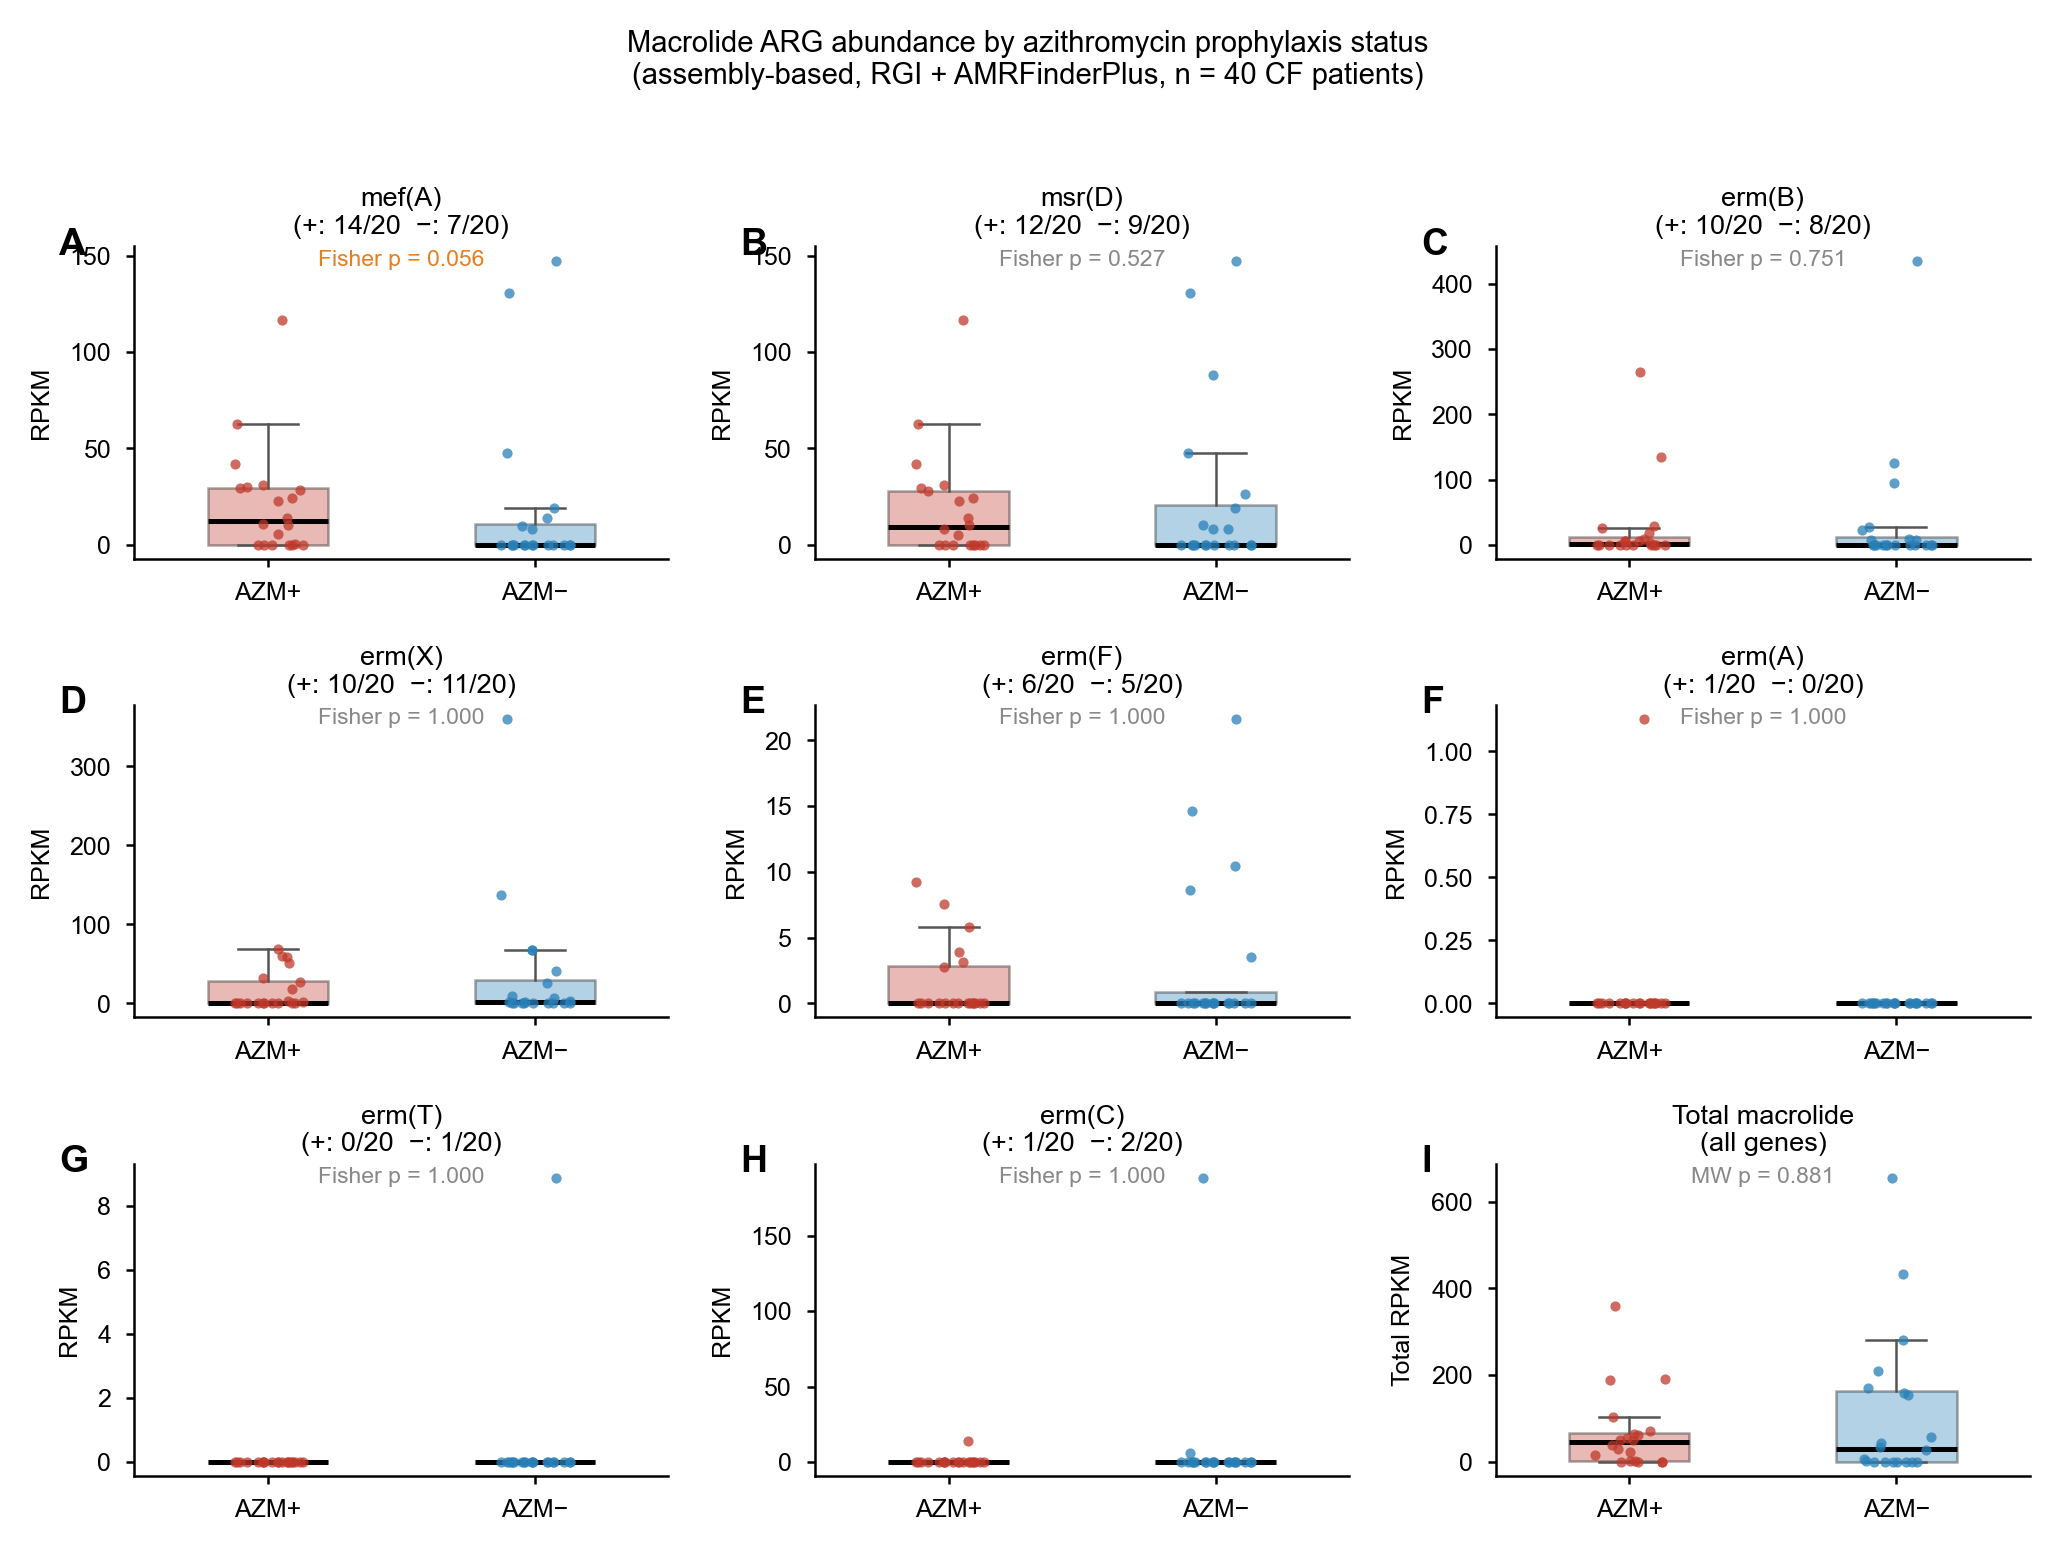
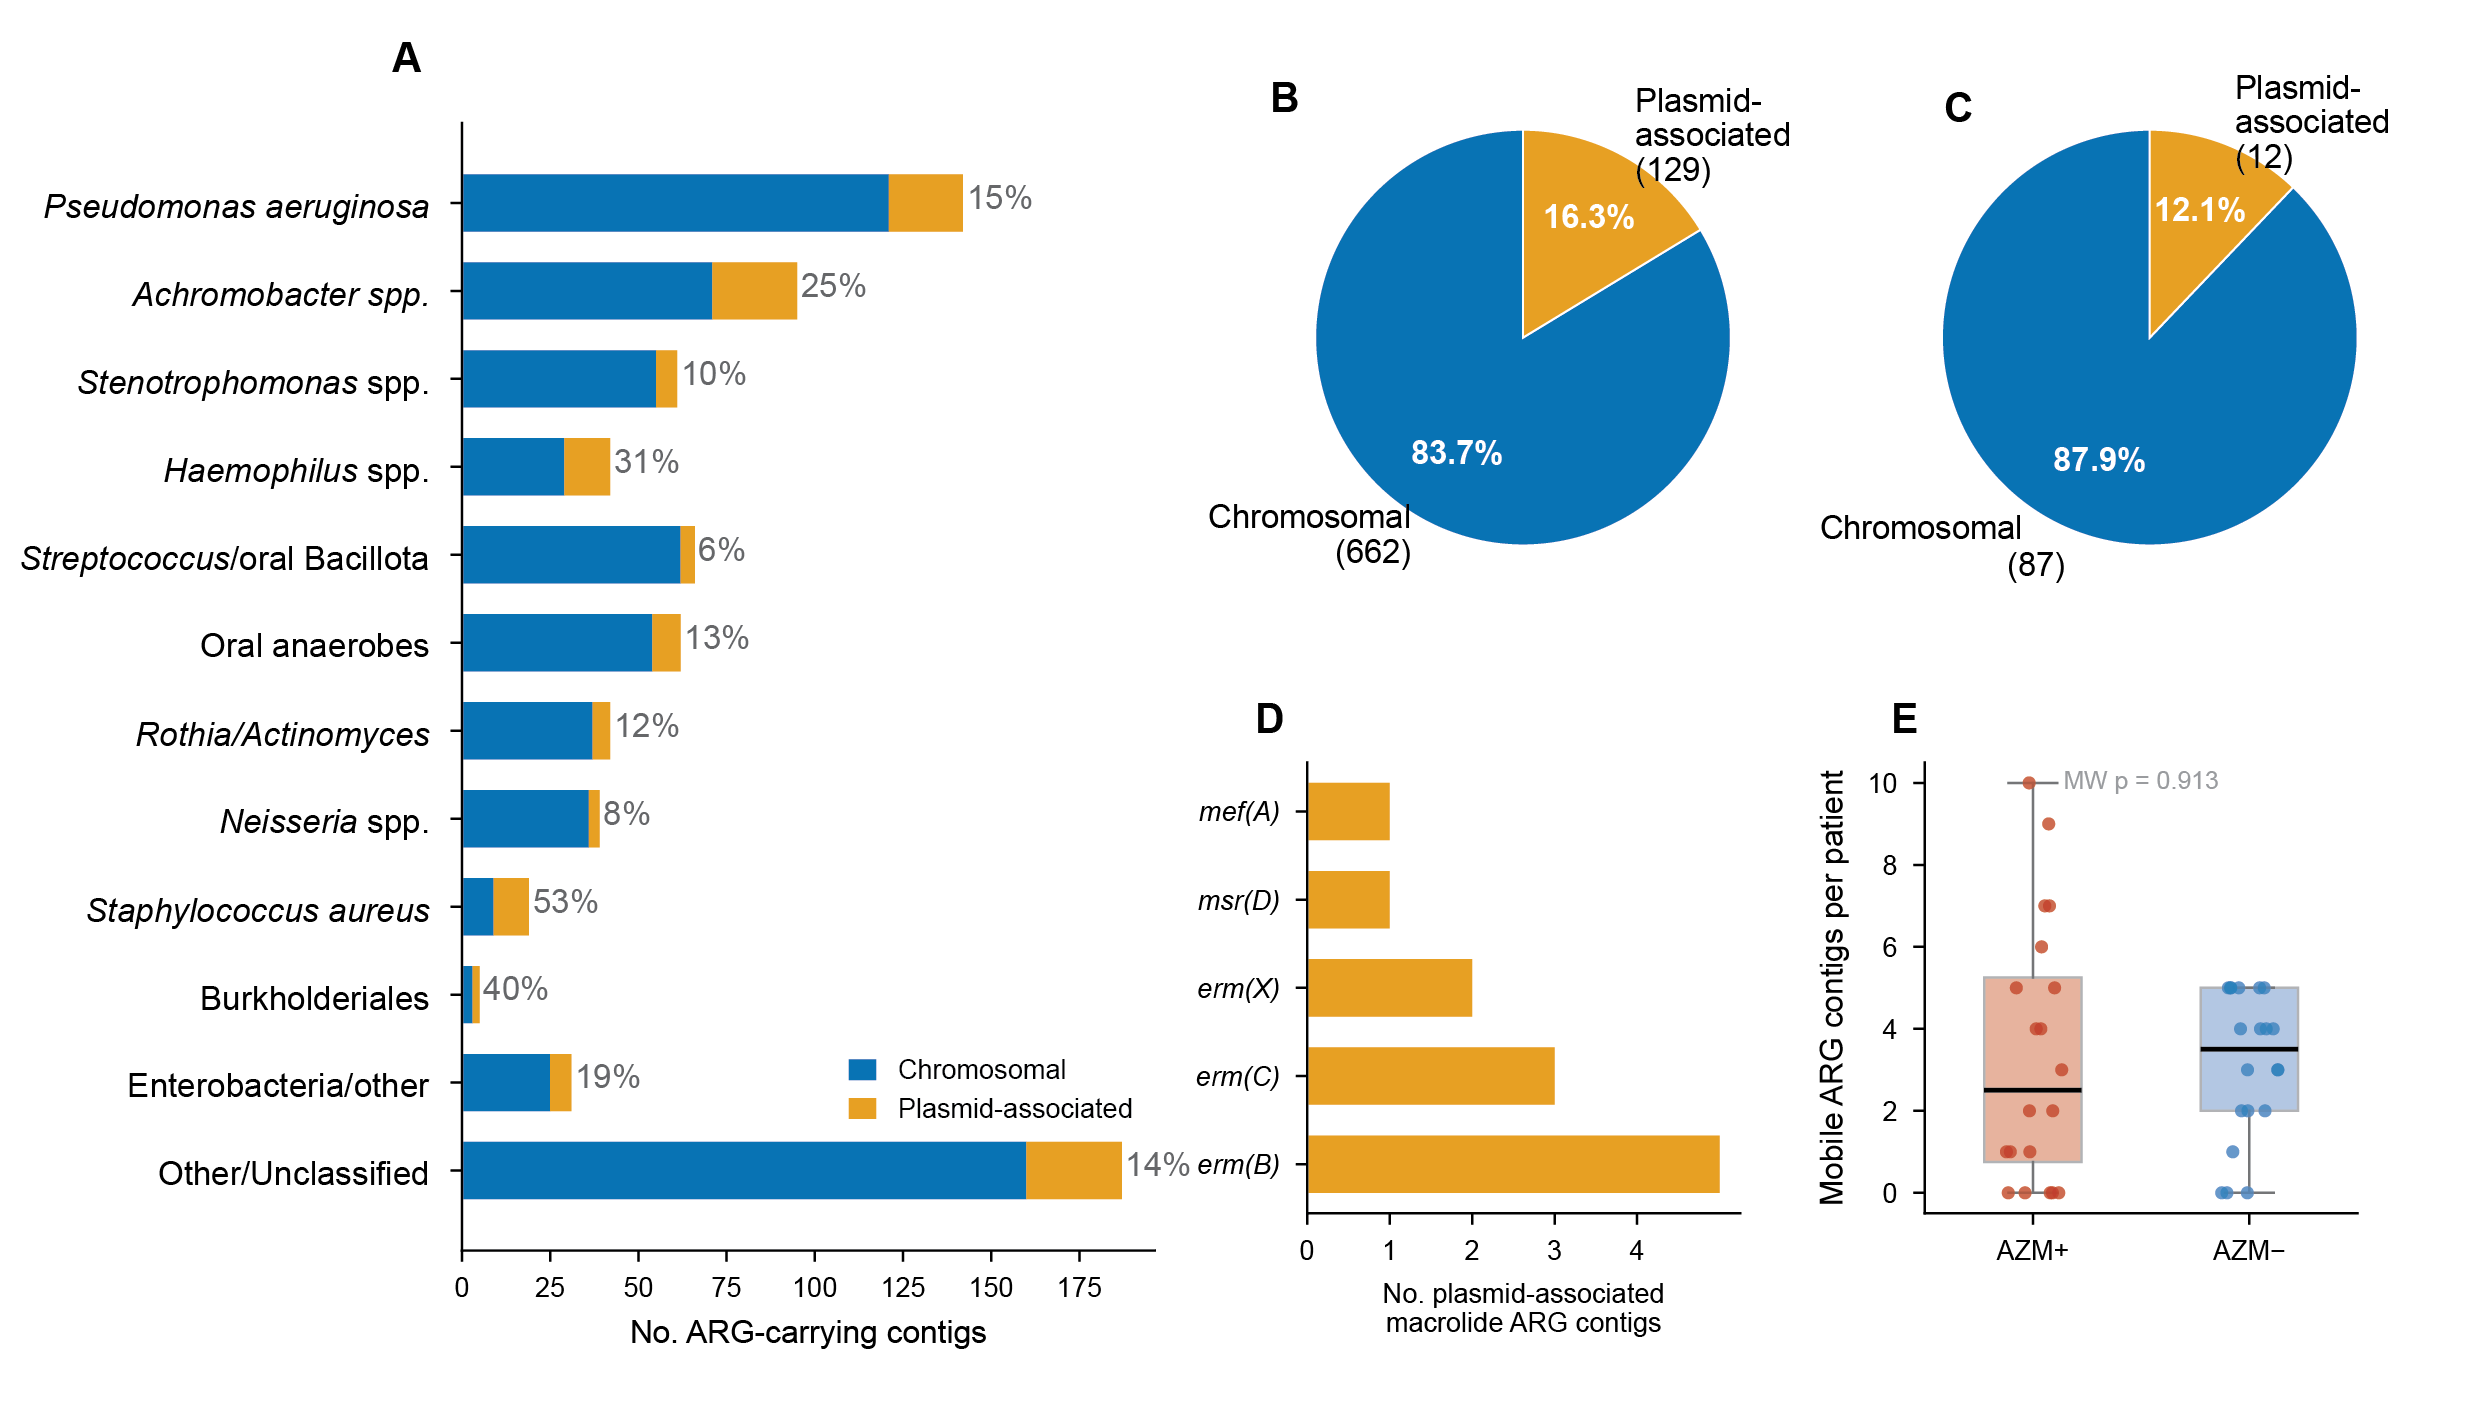
review G. v1

diff --git a/scripts/fig_5.py b/scripts/fig_5.py
@@ -37,12 +37,12 @@ FIG_H = 80 * MM    # 1 row of 4 panels
 matplotlib.rcParams.update({
     'font.family':      'sans-serif',
     'font.sans-serif':  ['Arial', 'Helvetica', 'DejaVu Sans'],
-    'font.size':        7,
-    'axes.labelsize':   7,
-    'axes.titlesize':   7,
-    'xtick.labelsize':  6,
-    'ytick.labelsize':  6,
-    'legend.fontsize':  6,
+    'font.size':        9,
+    'axes.labelsize':   9,
+    'axes.titlesize':   9,
+    'xtick.labelsize':  8,
+    'ytick.labelsize':  8,
+    'legend.fontsize':  8,
     'axes.linewidth':   0.6,
     'xtick.major.width': 0.6,
     'ytick.major.width': 0.6,
@@ -95,10 +95,10 @@ def draw_panel(ax, pos_vals, neg_vals, ylabel, seed=42):
     p_col = '#C0392B' if mw.pvalue < 0.05 else ('#E67E22' if mw.pvalue < 0.10 else '#888888')
     ax.text(0.5, 0.99, f'MW p = {mw.pvalue:.3f}',
             transform=ax.transAxes, ha='center', va='top',
-            fontsize=5.5, color=p_col)
+            fontsize=7.5, color=p_col)
     ax.set_xticks([0, 1])
-    ax.set_xticklabels([f'CFTR+\n(n={n_pos})', f'CFTR−\n(n={n_neg})'], fontsize=6)
-    ax.set_ylabel(ylabel, fontsize=6)
+    ax.set_xticklabels([f'M+\n(n={n_pos})', f'M−\n(n={n_neg})'], fontsize=8)
+    ax.set_ylabel(ylabel, fontsize=8)
     ax.spines['top'].set_visible(False)
     ax.spines['right'].set_visible(False)
     ax.tick_params(axis='both', length=2, width=0.6)
@@ -111,30 +111,26 @@ fig, axes = plt.subplots(1, 4, figsize=(FIG_W, FIG_H))
 pos_a = richness[richness['CFTR'] == 'CFTR+']['n_aro'].values
 neg_a = richness[richness['CFTR'] == 'CFTR−']['n_aro'].values
 p_a = draw_panel(axes[0], pos_a, neg_a, 'Total ARG richness\n(unique AROs)')
-axes[0].set_title('ARG richness', fontsize=7, pad=3)
 
 # Panel B: PA abundance
 pos_b = meta[meta['CFTR'] == 'CFTR+']['PA_sylph_pct'].values
 neg_b = meta[meta['CFTR'] == 'CFTR−']['PA_sylph_pct'].values
 p_b = draw_panel(axes[1], pos_b, neg_b, 'PA abundance (%)')
-axes[1].set_title('P. aeruginosa\nabundance (PA%)', fontsize=7, pad=3)
 
 # Panel C: total macrolide RPKM
 pos_c = meta[meta['CFTR'] == 'CFTR+']['total_mac_rpkm_mapped'].values
 neg_c = meta[meta['CFTR'] == 'CFTR−']['total_mac_rpkm_mapped'].values
 p_c = draw_panel(axes[2], pos_c, neg_c, 'Total macrolide\nRPKM')
-axes[2].set_title('Macrolide ARG\nabundance', fontsize=7, pad=3)
 
 # Panel D: mobile ARG contigs
 pos_d = meta[meta['CFTR'] == 'CFTR+']['n_mobile_arg'].values
 neg_d = meta[meta['CFTR'] == 'CFTR−']['n_mobile_arg'].values
 p_d = draw_panel(axes[3], pos_d, neg_d, 'Mobile ARG\ncontigs per patient')
-axes[3].set_title('Mobile ARG\ncontigs', fontsize=7, pad=3)
 
 # Panel labels
 for i, ax in enumerate(axes):
     ax.text(-0.18, 1.06, chr(65 + i), transform=ax.transAxes,
-            fontsize=9, fontweight='bold', va='top')
+            fontsize=11, fontweight='bold', va='top')
 
 plt.tight_layout()
 

diff --git a/scripts/fig_1.py b/scripts/fig_1.py
@@ -57,7 +57,6 @@ CLASS_COLORS = {
     'tetracycline':     '#E69F00',
     'aminoglycoside':   '#56B4E9',
     'phenicol':         '#CC79A7',
-    'triclosan':        '#F0E442',
     'fosfomycin':       '#7570B3',
     'peptide':          '#1B9E77',
     'sulfonamide':      '#A6761D',
@@ -67,11 +66,11 @@ CLASS_LABELS = {
     'beta-lactam': 'Beta-lactam', 'macrolide/MLSB': 'Macrolide/MLSB',
     'fluoroquinolone': 'Fluoroquinolone', 'tetracycline': 'Tetracycline',
     'aminoglycoside': 'Aminoglycoside', 'phenicol': 'Phenicol',
-    'triclosan': 'Triclosan', 'fosfomycin': 'Fosfomycin',
+    'fosfomycin': 'Fosfomycin',
     'peptide': 'Peptide', 'sulfonamide': 'Sulfonamide', 'other': 'Other',
 }
 CLASS_ORDER = ['beta-lactam','macrolide/MLSB','fluoroquinolone','tetracycline',
-               'aminoglycoside','fosfomycin','peptide','phenicol','triclosan',
+               'aminoglycoside','fosfomycin','peptide','phenicol',
                'sulfonamide','other']
 AZM_COLORS = {'AZMpos': '#C0392B', 'AZMneg': '#2980B9'}
 MECH_COLORS = {
@@ -95,7 +94,6 @@ BROAD_MAP = {
     'trimethoprim':    ['diaminopyrimidine','trimethoprim'],
     'fosfomycin':      ['fosfomycin'],
     'peptide':         ['peptide antibiotic'],
-    'triclosan':       ['triclosan'],
     'sulfonamide':     ['sulfonamide'],
 }
 def assign_broad(s):